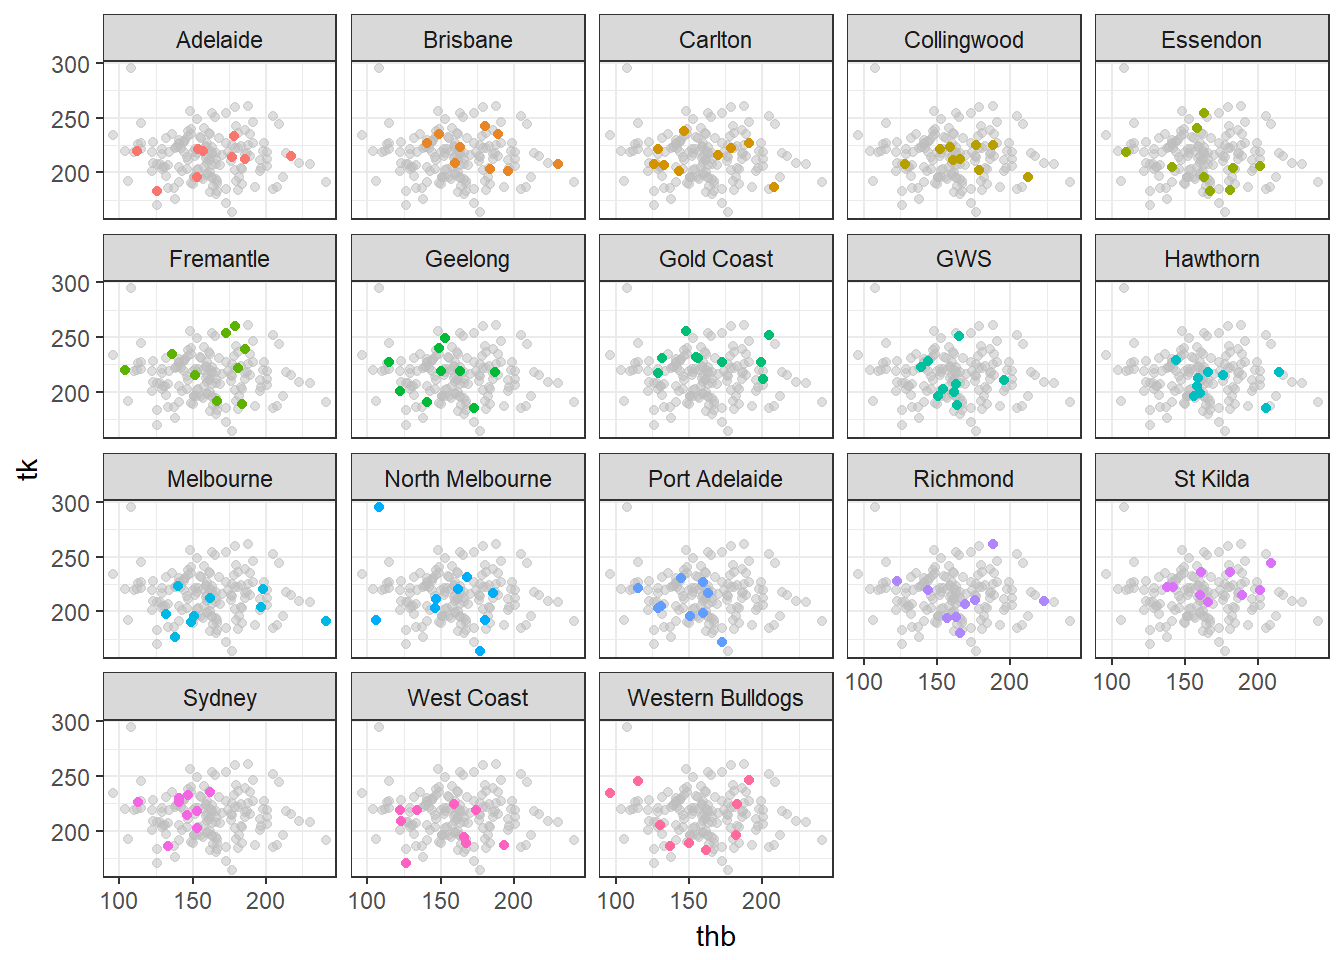
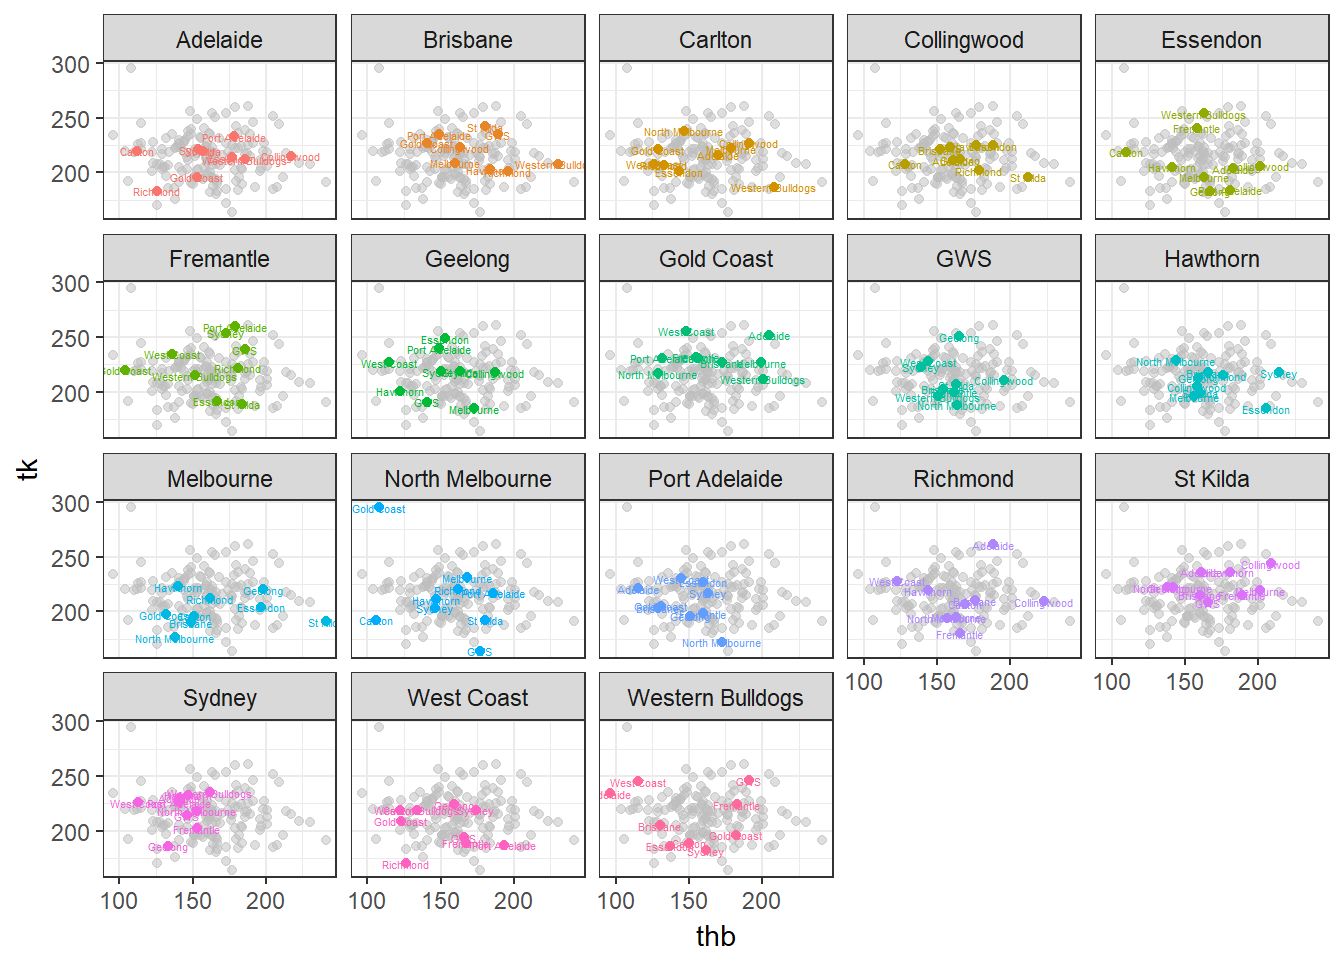
push
push

diff --git a/content/makemeauseR/2018-05-25-plotting-background-data.html b/content/makemeauseR/2018-05-25-plotting-background-data.html
@@ -275,7 +275,7 @@ df2%&gt;%
 
   ggplot(df4, aes(x = thb, y = tk, colour=Opposition)) +
     geom_point(data=d_bg, colour = &quot;grey&quot;, alpha = .5)+
-    geom_point() + guides(colour = FALSE)+
+    geom_point() + guides(colour = FALSE)+ geom_text(aes(label=Team), size=1.5)+
   
     facet_wrap(~ Opposition)+
     guides(colour = FALSE) +
